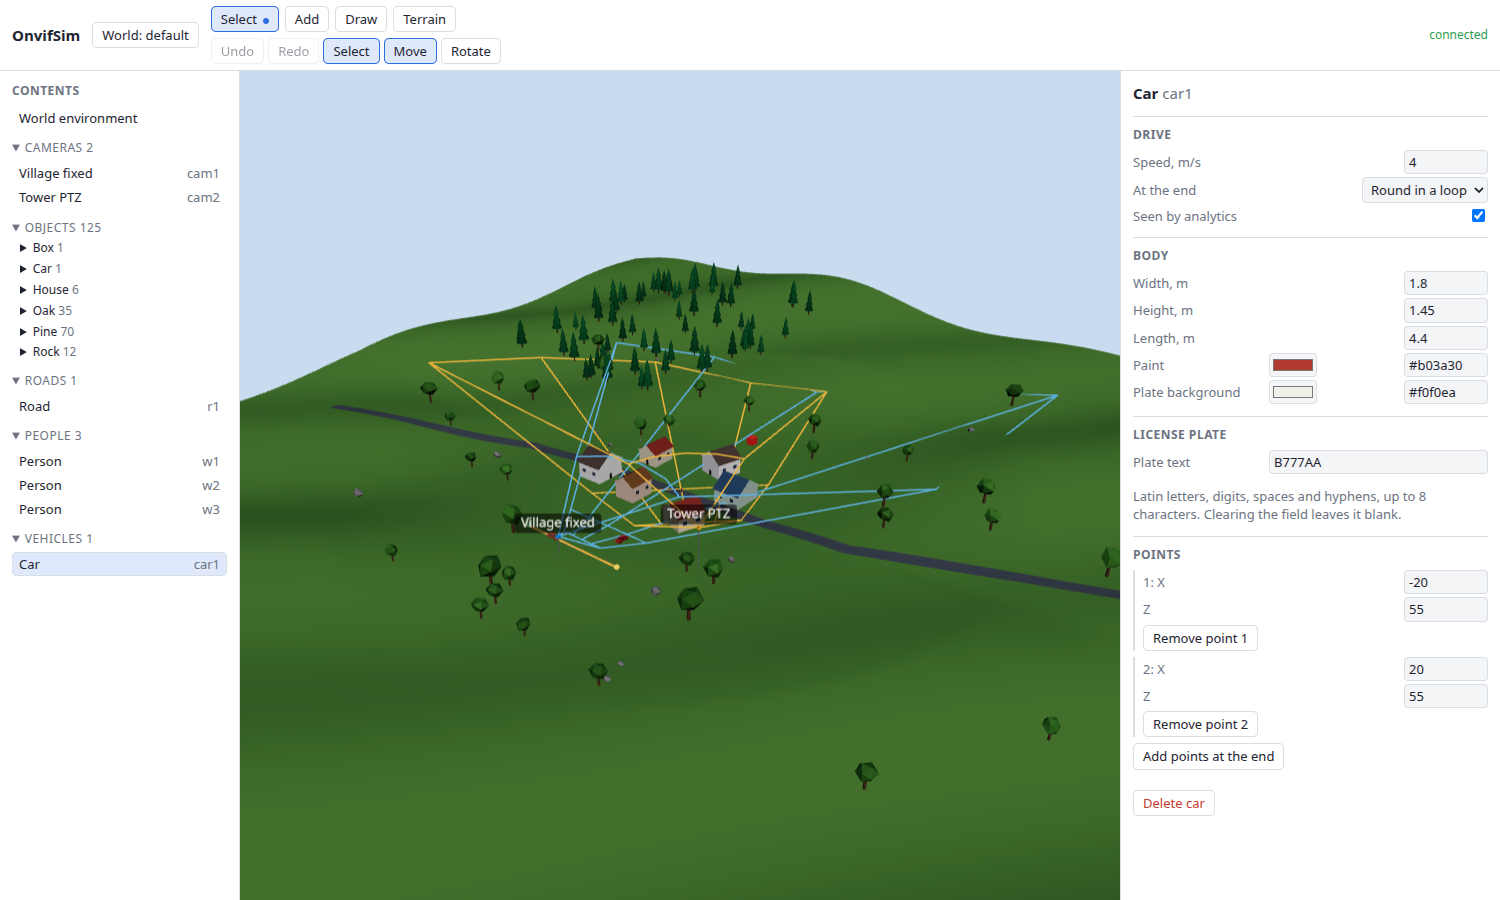
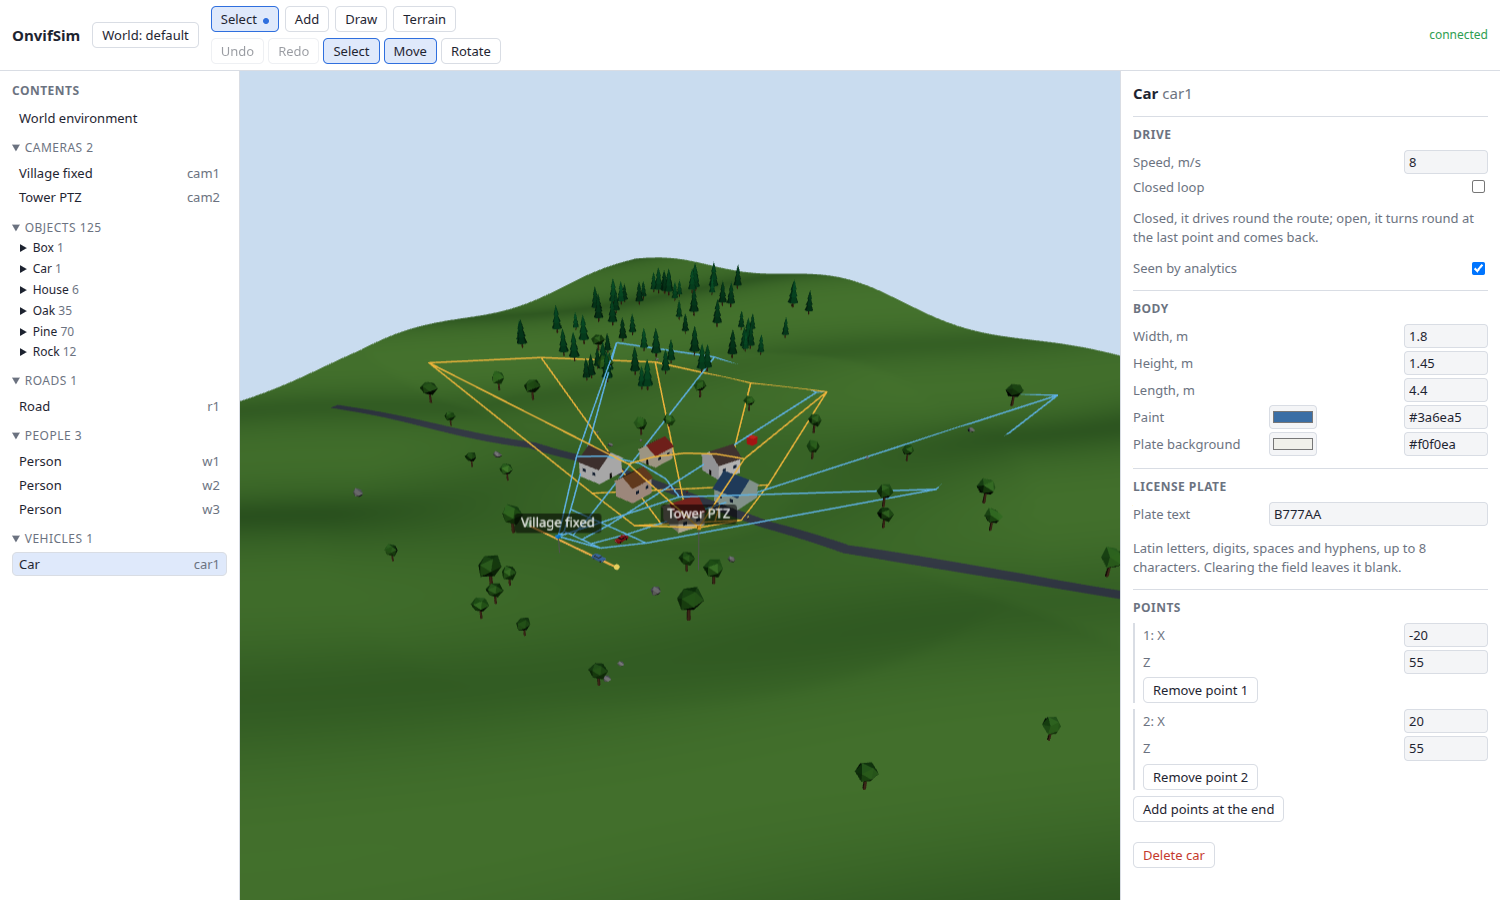
Let roads and routes close into loops
A road gains Closed loop: the last point joins the first and the strip
runs round as a ring, with the two segments meeting at the start point
sharing one edge. People and cars use one checkbox for the same idea:
closed, the route goes round; open, they turn round at the last point
and come back, which was the Return setting all along.

The road mesh closes on the server and in the editor; the API and world
file carry `closed`, and a test checks that the closing segment is laid.
README, changelog and the car-route screenshot follow the new control.

Changed region(s): [[0.736, 0.1867, 1.0, 0.84], [0.736, 0.7467, 0.8587, 0.9644], [0.9813, 0.28, 1.0, 0.3111]]

diff --git a/src/OnvifSim.Web/src/viewport/RoutesView.tsx b/src/OnvifSim.Web/src/viewport/RoutesView.tsx
@@ -211,17 +211,24 @@ function roadGeometry(road: Road, terrain: Terrain): BufferGeometry {
   const across = Math.max(2, Math.ceil(road.width / sampleSpacing));
   const positions: number[] = [];
   const indices: number[] = [];
+  const segments = road.closed ? points.length : points.length - 1;
   let previousRow = -1;
-  for (let i = 0; i < points.length - 1; i++) {
+  for (let i = 0; i < segments; i++) {
     const a = points[i];
-    const b = points[i + 1];
+    const b = points[(i + 1) % points.length];
     const length = Math.hypot(b.x - a.x, b.z - a.z);
     if (length === 0) continue;
     const steps = Math.max(1, Math.ceil(length / sampleSpacing));
     for (let s = previousRow < 0 ? 0 : 1; s <= steps; s++) {
       const t = s / steps;
       const centre = { x: a.x + (b.x - a.x) * t, z: a.z + (b.z - a.z) * t };
-      const side = sideOf(points, i, s === steps ? i + 1 : -1);
+      // At a joint the two segments share one edge; a closed road's last row meets its first.
+      const side =
+        s === 0 && i === 0
+          ? jointSide(points, 0, road.closed)
+          : s === steps
+            ? jointSide(points, (i + 1) % points.length, road.closed)
+            : acrossOf(a, b);
       const row = positions.length / 3;
       for (let k = 0; k <= across; k++) {
         const offset = half * ((2 * k) / across - 1);
@@ -245,18 +252,33 @@ function roadGeometry(road: Road, terrain: Terrain): BufferGeometry {
   return geometry;
 }
 
-function sideOf(points: GroundPoint[], segment: number, joint: number) {
-  const across = (from: GroundPoint, to: GroundPoint) => {
-    const length = Math.hypot(to.x - from.x, to.z - from.z);
-    return { x: -(to.z - from.z) / length, z: (to.x - from.x) / length };
+function acrossOf(from: GroundPoint, to: GroundPoint) {
+  const length = Math.hypot(to.x - from.x, to.z - from.z);
+  return { x: -(to.z - from.z) / length, z: (to.x - from.x) / length };
+}
+
+function jointSide(points: GroundPoint[], joint: number, closed: boolean) {
+  const n = points.length;
+  const incoming = (joint - 1 + n) % n;
+  const outgoing = (joint + 1) % n;
+  let x = 0;
+  let z = 0;
+  const add = (from: GroundPoint, to: GroundPoint) => {
+    const side = acrossOf(from, to);
+    x += side.x;
+    z += side.z;
   };
-  let side = across(points[segment], points[segment + 1]);
-  const next = points[joint + 1];
-  if (joint > 0 && next && (next.x !== points[joint].x || next.z !== points[joint].z)) {
-    const other = across(points[joint], next);
-    const sum = { x: side.x + other.x, z: side.z + other.z };
-    const length = Math.hypot(sum.x, sum.z);
-    if (length > 1e-3) side = { x: sum.x / length, z: sum.z / length };
+  if ((closed || joint > 0) && (points[incoming].x !== points[joint].x || points[incoming].z !== points[joint].z))
+    add(points[incoming], points[joint]);
+  if ((closed || joint < n - 1) && (points[outgoing].x !== points[joint].x || points[outgoing].z !== points[joint].z))
+    add(points[joint], points[outgoing]);
+  const length = Math.hypot(x, z);
+  if (length > 1e-3) return { x: x / length, z: z / length };
+  // A joint surrounded by zero-length segments has no direction; take any segment that has one.
+  for (let i = 0; i < (closed ? n : n - 1); i++) {
+    const from = points[i];
+    const to = points[(i + 1) % n];
+    if (from.x !== to.x || from.z !== to.z) return acrossOf(from, to);
   }
-  return side;
+  return { x: 1, z: 0 };
 }

diff --git a/src/OnvifSim.Web/src/panels/RouteInspectors.tsx b/src/OnvifSim.Web/src/panels/RouteInspectors.tsx
@@ -1,11 +1,6 @@
-import { plateText, type GroundPoint, type Road, type RouteReturn, type Vehicle, type Walker } from '../model';
+import { plateText, type GroundPoint, type Road, type Vehicle, type Walker } from '../model';
 import { removeSelected, startDrawing, updateRoad, updateVehicle, updateWalker } from '../store';
-import { CheckboxField, ColorField, NumberField, Section, SelectField, TextField } from './fields';
-
-const returnOptions = [
-  { value: 'loop', label: 'Round in a loop' },
-  { value: 'reverse', label: 'There and back' },
-] as const satisfies readonly { value: RouteReturn; label: string }[];
+import { CheckboxField, ColorField, NumberField, Section, TextField } from './fields';
 
 export function RoadInspector({ road }: { road: Road }) {
   const change = (patch: Partial<Road>) => updateRoad({ ...road, ...patch });
@@ -17,6 +12,8 @@ export function RoadInspector({ road }: { road: Road }) {
       <Section title="Road">
         <NumberField label="Width, m" value={road.width} min={0.5} max={50} step={0.5} onChange={(width) => change({ width })} />
         <ColorField label="Surface" value={road.color ?? '#55575a'} onChange={(color) => change({ color })} />
+        <CheckboxField label="Closed loop" checked={road.closed} onChange={(closed) => change({ closed })} />
+        <p className="muted">Joins the last point to the first, so the road goes round as a ring.</p>
       </Section>
       <Points
         points={road.points}
@@ -40,7 +37,8 @@ export function WalkerInspector({ walker }: { walker: Walker }) {
       </h2>
       <Section title="Walk">
         <NumberField label="Speed, m/s" value={walker.speed} min={0} max={10} step={0.1} onChange={(speed) => change({ speed })} />
-        <SelectField label="At the end" value={walker.return} options={returnOptions} onChange={(value) => change({ return: value })} />
+        <CheckboxField label="Closed loop" checked={walker.return === 'loop'} onChange={(closed) => change({ return: closed ? 'loop' : 'reverse' })} />
+        <p className="muted">Closed, they go round the route; open, they turn round at the last point and come back.</p>
         <NumberField label="Height, m" value={walker.height} min={0.5} max={3} step={0.05} onChange={(height) => change({ height })} />
         <ColorField label="Top" value={walker.color ?? '#3b6ea8'} onChange={(color) => change({ color })} />
         <ColorField label="Trousers" value={walker.color2 ?? '#3a3a44'} onChange={(color2) => change({ color2 })} />
@@ -68,7 +66,8 @@ export function VehicleInspector({ vehicle }: { vehicle: Vehicle }) {
       </h2>
       <Section title="Drive">
         <NumberField label="Speed, m/s" value={vehicle.speed} min={0} max={50} step={0.5} onChange={(speed) => change({ speed })} />
-        <SelectField label="At the end" value={vehicle.return} options={returnOptions} onChange={(value) => change({ return: value })} />
+        <CheckboxField label="Closed loop" checked={vehicle.return === 'loop'} onChange={(closed) => change({ return: closed ? 'loop' : 'reverse' })} />
+        <p className="muted">Closed, it drives round the route; open, it turns round at the last point and comes back.</p>
         <CheckboxField label="Seen by analytics" checked={vehicle.detectable} onChange={(detectable) => change({ detectable })} />
       </Section>
       <Section title="Body">

diff --git a/src/OnvifSim.Web/e2e/editor.spec.ts b/src/OnvifSim.Web/e2e/editor.spec.ts
@@ -113,7 +113,7 @@ test('a person drawn point by point walks the route', async ({ page, request }) 
   await expect(page.getByRole('heading', { level: 2 })).toContainText('Person');
   await expect.poll(async () => (await world(request)).walkers.length).toBe(before + 1);
   expect((await world(request)).walkers.at(-1)?.route).toHaveLength(3);
-  await page.getByLabel('At the end').selectOption('reverse');
+  await page.getByLabel('Closed loop', { exact: true }).uncheck();
   await expect.poll(async () => (await world(request)).walkers.at(-1)?.return).toBe('reverse');
 });
 
@@ -201,6 +201,29 @@ test('a person can be selected by clicking it in the viewport', async ({ page, r
   } finally {
     await request.delete(`/api/walkers/${standing.id}`);
     for (const walker of before.walkers) await request.put(`/api/walkers/${walker.id}`, { data: walker });
+  }
+});
+
+test('a road can be closed into a ring', async ({ page, request }) => {
+  await openEditor(page);
+  await openGroup(page, 'Draw');
+  await page.getByRole('button', { name: 'Road', exact: true }).click();
+  const box = await page.locator('.viewport canvas').boundingBox();
+  if (!box) throw new Error('The viewport is not on screen.');
+  for (const [fx, fy] of [[0.25, 0.72], [0.5, 0.72], [0.5, 0.82], [0.25, 0.82]]) await page.mouse.click(box.x + box.width * fx, box.y + box.height * fy);
+  await expect(page.getByText('4 points; double-click or Enter to finish')).toBeVisible();
+  await page.keyboard.press('Enter');
+
+  const heading = page.getByRole('heading', { level: 2 });
+  await expect(heading).toContainText('Road');
+  const id = (await heading.locator('span').textContent()) ?? '';
+  try {
+    await page.getByLabel('Closed loop', { exact: true }).check();
+    await expect.poll(async () => (await world(request)).roads.find((r) => r.id === id)?.closed).toBe(true);
+    await page.getByLabel('Closed loop', { exact: true }).uncheck();
+    await expect.poll(async () => (await world(request)).roads.find((r) => r.id === id)?.closed).toBe(false);
+  } finally {
+    await request.delete(`/api/roads/${id}`);
   }
 });
 
@@ -446,6 +469,7 @@ async function world(request: APIRequestContext) {
   return (await (await request.get('/api/world')).json()) as {
     cameras: { id: string; name: string; hFov: number; bindAddress?: string | null; rtspPort?: number; streams?: { token: string; path: string }[] }[];
     objects: { id: string; type: string; plate?: string | null; position: { x: number; z: number } }[];
+    roads: { id: string; closed: boolean }[];
     walkers: { id: string; route: unknown[]; return: string }[];
     vehicles: { id: string; route: unknown[]; plate?: string | null }[];
     terrain: { heights: string };

diff --git a/src/OnvifSim.Web/src/model.ts b/src/OnvifSim.Web/src/model.ts
@@ -64,6 +64,8 @@ export interface Road {
   points: GroundPoint[];
   width: number;
   color: string | null;
+  // Whether the last point joins the first, making a ring.
+  closed: boolean;
 }
 
 // Loop: from the last point back to the first; reverse: back the same way.

diff --git a/src/OnvifSim.Server/Geometry/SceneBuilder.cs b/src/OnvifSim.Server/Geometry/SceneBuilder.cs
@@ -82,19 +82,26 @@ public static class SceneBuilder
         var color = ColorUtil.Parse(road.Color, ColorUtil.Rgb(85, 87, 90));
         float half = road.Width / 2;
         int across = Math.Max(2, (int)MathF.Ceiling(road.Width / RoadSampleSpacing));
+        int segments = road.Closed ? points.Count : points.Count - 1;
         int previousRow = -1;
-        for (int i = 0; i < points.Count - 1; i++)
+        for (int i = 0; i < segments; i++)
         {
-            var (a, b) = (points[i], points[i + 1]);
+            var a = points[i];
+            var b = points[(i + 1) % points.Count];
             float length = Vector2.Distance(a, b);
             if (length == 0) continue;
             int steps = Math.Max(1, (int)MathF.Ceiling(length / RoadSampleSpacing));
-            // The last row of a segment is the first of the next one, turned halfway between the two.
+            // The last row of a segment is the first of the next one, turned halfway between the two;
+            // a closed road's last row meets the first one at the starting point.
             for (int s = previousRow < 0 ? 0 : 1; s <= steps; s++)
             {
                 float t = (float)s / steps;
                 var centre = Vector2.Lerp(a, b, t);
-                var side = Side(points, i, s == steps ? i + 1 : -1);
+                var side = s == 0 && i == 0
+                    ? JointSide(points, 0, road.Closed)
+                    : s == steps
+                        ? JointSide(points, (i + 1) % points.Count, road.Closed)
+                        : Across(a, b);
                 int row = mesh.VertexCount;
                 for (int k = 0; k <= across; k++)
                 {
@@ -115,22 +122,30 @@ public static class SceneBuilder
         return mesh;
     }
 
-    // The unit vector pointing across the road (to the right of travel) on segment i, or at a joint the
-    // average of the segments meeting there.
-    private static Vector2 Side(List<Vector2> points, int segment, int joint)
+    private static Vector2 Across(Vector2 from, Vector2 to)
     {
-        static Vector2 Across(Vector2 from, Vector2 to)
-        {
-            var d = Vector2.Normalize(to - from);
-            return new Vector2(-d.Y, d.X);
-        }
-        var side = Across(points[segment], points[segment + 1]);
-        if (joint > 0 && joint < points.Count - 1 && points[joint + 1] != points[joint])
-        {
-            var averaged = side + Across(points[joint], points[joint + 1]);
-            if (averaged.LengthSquared() > 1e-6f) side = Vector2.Normalize(averaged);
-        }
-        return side;
+        var d = Vector2.Normalize(to - from);
+        return new Vector2(-d.Y, d.X);
+    }
+
+    // The direction across the road at a joint: the average of the segments arriving at it and leaving
+    // it, so the two rows that meet there share one edge. On a closed road the first and last segments
+    // meet at joint 0 too.
+    private static Vector2 JointSide(List<Vector2> points, int joint, bool closed)
+    {
+        int n = points.Count;
+        int incoming = (joint - 1 + n) % n;
+        int outgoing = (joint + 1) % n;
+        var side = Vector2.Zero;
+        if ((closed || joint > 0) && points[joint] != points[incoming])
+            side += Across(points[incoming], points[joint]);
+        if ((closed || joint < n - 1) && points[outgoing] != points[joint])
+            side += Across(points[joint], points[outgoing]);
+        if (side.LengthSquared() > 1e-6f) return Vector2.Normalize(side);
+        // A joint surrounded by zero-length segments has no direction; take any segment that has one.
+        for (int i = 0; i < (closed ? n : n - 1); i++)
+            if (points[i] != points[(i + 1) % n]) return Across(points[i], points[(i + 1) % n]);
+        return new Vector2(1, 0);
     }
 
     private static void AddUpward(Mesh mesh, int a, int b, int c)

diff --git a/tests/OnvifSim.Tests/EditorApiTests.cs b/tests/OnvifSim.Tests/EditorApiTests.cs
@@ -42,6 +42,8 @@ public class EditorApiTests(SimFactory factory) : IClassFixture<SimFactory>
         var client = factory.CreateClient();
         Assert.Equal(HttpStatusCode.NoContent, (await client.PutAsync("/api/roads/test-road", Json(new { points = new[] { new { x = 0, z = 0 }, new { x = 20, z = 5 } }, width = 3 }))).StatusCode);
         Assert.Equal(3, Store.Current.Roads.Single(r => r.Id == "test-road").Width);
+        Assert.Equal(HttpStatusCode.NoContent, (await client.PutAsync("/api/roads/test-road", Json(new { points = new[] { new { x = 0, z = 0 }, new { x = 20, z = 5 } }, closed = true }))).StatusCode);
+        Assert.True(Store.Current.Roads.Single(r => r.Id == "test-road").Closed);
         Assert.Equal(HttpStatusCode.NoContent, (await client.PutAsync("/api/walkers/test-walker", Json(new { route = new[] { new { x = 1, z = 2 } }, @return = "reverse" }))).StatusCode);
         Assert.Equal(RouteReturn.Reverse, Store.Current.Walkers.Single(w => w.Id == "test-walker").Return);
 

diff --git a/tests/OnvifSim.Tests/RoadMeshTests.cs b/tests/OnvifSim.Tests/RoadMeshTests.cs
@@ -1,0 +1,23 @@
+using OnvifSim.Geometry;
+using OnvifSim.World;
+
+namespace OnvifSim.Tests;
+
+public class RoadMeshTests
+{
+    // A closed road lays one more segment, from the last point back to the first.
+    [Fact]
+    public void AClosedRoad_HasTheSegmentThatClosesIt()
+    {
+        static int Vertices(bool closed)
+        {
+            var world = new WorldModel
+            {
+                Roads = [new RoadModel { Id = "r", Points = [new(0, 0), new(10, 0), new(10, 10)], Width = 2, Closed = closed }],
+            };
+            return SceneBuilder.Build(world).Single(chunk => chunk.Name == "r").Mesh.VertexCount;
+        }
+
+        Assert.True(Vertices(closed: true) > Vertices(closed: false));
+    }
+}

diff --git a/src/OnvifSim.Server/World/WorldModel.cs b/src/OnvifSim.Server/World/WorldModel.cs
@@ -71,6 +71,8 @@ public sealed class RoadModel
     public List<GroundPoint> Points { get; set; } = [];
     public float Width { get; set; } = 4;
     public string? Color { get; set; }
+    // Join the last point to the first: the road goes round as a ring instead of ending.
+    public bool Closed { get; set; }
 }
 
 // A person walking a route over and over, at a steady pace. Where they are follows from the clock, so

diff --git a/README.md b/README.md
@@ -208,10 +208,11 @@ is marked with a dot, so the viewport keeps doing exactly what it did until anot
   selection, Escape drops it.
 - **Add** trees, houses, rocks, boxes, cars and fixed or PTZ cameras: pick one and click the ground.
 - **Draw** roads, people and car routes: click the ground point by point and finish with a
-  double-click or Enter. A person walks their route, a car drives theirs, over and over, round in a
-  loop or there and back, at the speed you set; a car turns to follow the route. Every camera sees
-  them move: where they are follows from the clock, so all streams and snapshots agree. Drag the
-  points of a selected road or route to reshape it.
+  double-click or Enter. A person walks their route, a car drives theirs over and over; a car turns
+  to follow the route. **Closed loop** makes the last point join the first, so they go round; left
+  open, they turn round at the last point and come back. A road can be closed into a ring the same
+  way. Every camera sees them move: where they are follows from the clock, so all streams and
+  snapshots agree. Drag the points of a selected road or route to reshape it.
 - **Terrain** brushes: Raise, Lower, Smooth and Flatten, with radius and strength.
 - **Contents** lists every camera, object, road, person and moving car in the world on the left.
   Objects are grouped by type, and opening a type shows its ids. Clicking a row selects it exactly as
@@ -242,8 +243,9 @@ is marked with a dot, so the viewport keeps doing exactly what it did until anot
   village distance shows the car, not the text. **Make it drive** in a parked car's panel turns it
   into a moving car on a straight route along the way it faces, keeping its paint, size and plate;
   one Undo parks it again. **Car route** under Draw makes a moving car from a route you draw: set its
-  speed, whether it loops or goes back, its body size, paint, plate background and plate, and whether
-  cameras' analytics report it. A selected car shows its route, and the points drag like a person's.
+  speed, whether the route is a closed loop, its body size, paint, plate background and plate, and
+  whether cameras' analytics report it. A selected car shows its route, and the points drag like a
+  person's.
 
 <p align="center">
   <img src="docs/images/car-plate.png" alt="The editor with the car selected: its body and plate settings, including the plate text" width="90%">

diff --git a/CHANGELOG.md b/CHANGELOG.md
@@ -27,6 +27,10 @@
   `/api/vehicles/{id}/pose`. The route rule is shared with walkers (`RouteMotion`). A parked car's
   panel has **Make it drive**, which turns it into a moving car on a straight route along its heading
   and keeps its paint, size and plate; the conversion is one Undo step.
+- **Closed roads and routes.** A road's panel has **Closed loop**: the last point joins the first and
+  the strip runs round as a ring (`closed` in the world file). People and moving cars have the same
+  choice on their routes: closed, they go round; open, they turn round at the last point and come
+  back, which is the existing `return` loop/reverse setting with a clearer control.
 - **Documentation**: the README is now the complete English documentation; the outdated
   `docs/PLAN.md` was removed (git history keeps it), and the README gained screenshots of the world
   manager, the contents tree, the car's plate and a moving car's route.
